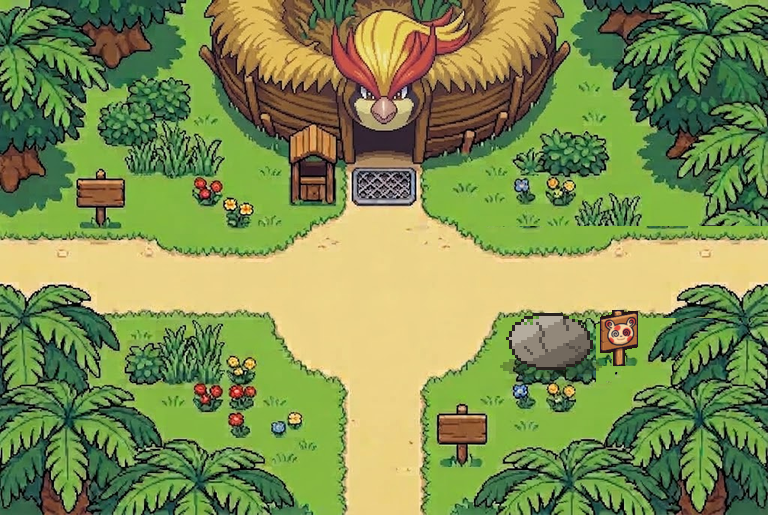
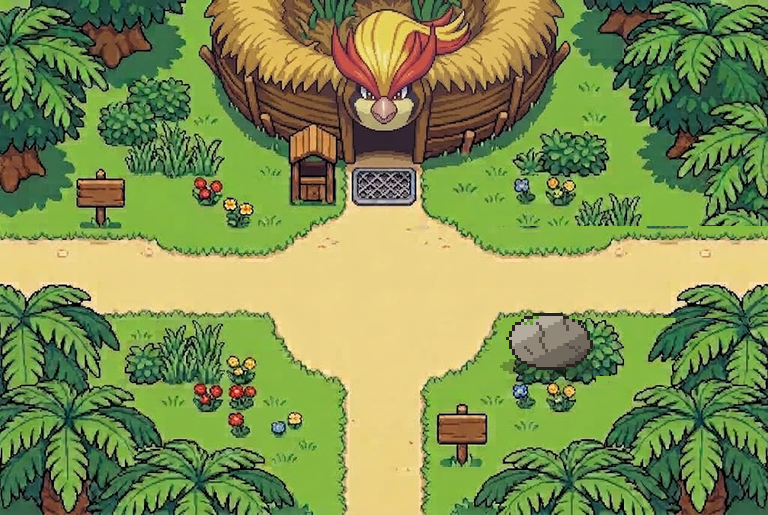
Plaza con la roca, sin cartel

Changed region(s): [[0.75, 0.5903, 0.8438, 0.7456]]

diff --git a/client/js/hub.js b/client/js/hub.js
@@ -26,7 +26,7 @@ export const HUB = {
     ],
     signs: [ { rect: [70, 170, 130, 230], text: 'Mercado de Kecleon ←' }, { rect: [440, 405, 500, 465], text: '↓ Aldea · Salida a las mazmorras' },
       // entrada al Café de Spinda (bajo tierra): dibujada por tools/build-cafe-hole.py; el café aún no está abierto
-      { rect: [598, 306, 640, 368], text: 'Un cartel con la cara de Spinda. Debajo, alguien ha escrito a mano: «Próximamente».' },
+      { rect: [598, 306, 640, 368], when: m => cafeOpen(m), text: 'Un cartel con la cara de Spinda. Debajo, alguien ha escrito a mano: «Próximamente».' },   // (el cartel solo está con el café abierto)
       { rect: [506, 313, 596, 372], when: m => !cafeOpen(m), text: 'Una roca enorme. Alguien ha dibujado encima, con tiza, una flecha que apunta hacia abajo.' },
       { rect: [534, 326, 596, 368], text: 'Unas escaleras bajan hacia la oscuridad. Se oye a alguien trastear ahí abajo… pero todavía está cerrado.' } ],
   },
